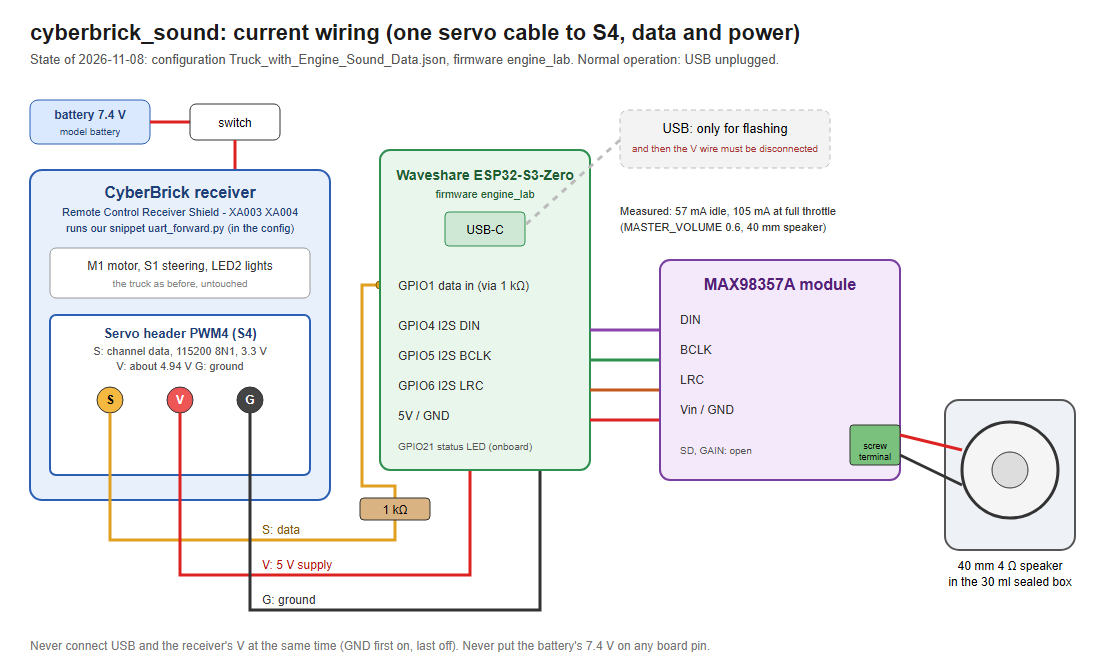
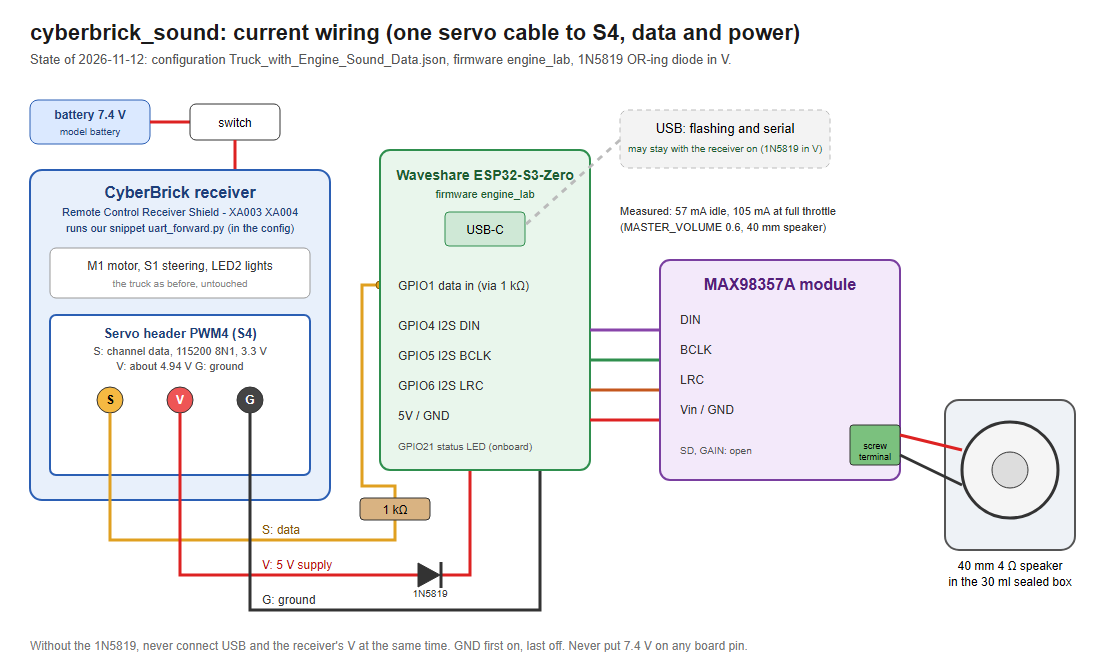
Breadboard: 1N5819 OR-ing diode in the V wire, USB and receiver together
A Schottky in the servo cable's V wire (anode to the receiver, cathode to the
Zero's 5V) lets the module stay on USB with the receiver powered. Measured
2026-11-12: receiver only 4.750 / 4.436 V (anode / cathode), USB only 5.135 V
on the 5V pin (VBUS directly), both 4.947 / 5.135 V, so the diode blocks and
the receiver is isolated. The old "disconnect V" rule stays for a breadboard
without the diode. Wiring diagram updated.

diff --git a/docs/bringup.md b/docs/bringup.md
@@ -3,7 +3,7 @@
 Status: done for the breadboard prototype (2026-11-01..06). The checklists below are kept as the record; the results
 are in the measurements table at the bottom. The current wiring is a single servo cable to S4 (`wiring-current.png`).
 
-> **Safety rule for every test: the ESP32-S3-Zero must never be powered from the model and connected to USB at the same time.** The Zero's 5V pad is the USB VBUS net (no diode), so the receiver's 5 V would be tied straight to the computer's USB 5 V. Whenever USB is plugged in, the servo cable's V (red) wire must be disconnected; signal and GND may stay. Unplug USB before connecting V. Only the shield, with its OR-ing diode, may have both.
+> **Safety rule for every test: the ESP32-S3-Zero may be powered from the model and from USB at the same time only through a diode in the V wire.** The Zero's 5V pad is the USB VBUS net with no diode (measured 5.135 V on it with USB only), so without a diode the receiver's 5 V would be tied straight to the computer's USB 5 V. Since 2026-11-12 the breadboard has a 1N5819 Schottky in the V wire (anode to the receiver, cathode to the Zero's 5V), like D2 on the shield; see "OR-ing diode on the breadboard" below for the check. Without that diode: whenever USB is plugged in, the servo cable's V (red) wire must be disconnected (signal and GND may stay), and USB is unplugged before V is connected.
 > **GND stays connected** in USB tests: the signal needs the common ground as its reference, and without it the return current would flow through the signal pin and the ESP's protection diodes. A common ground ties no supplies together (the receiver runs from a floating battery). Connect GND first and disconnect it last.
 
 Status: PWM2 throttle copy verified on the real receiver (see the measurements table). The engine firmware with the real throttle is the next test.
@@ -56,8 +56,27 @@ Only after stage 1 works. See `docs/wiring-stage2.png` (source `.svg`): unplug U
 
 Test-tone wiring only (no CyberBrick yet): `docs/wiring-test-tone.png`.
 
-Current wiring (2026-11-08: one servo cable to the receiver's S4 header, data and power): `docs/wiring-current.png`
-(source `.svg`).
+Current wiring (2026-11-08: one servo cable to the receiver's S4 header, data and power; 1N5819 in the V wire since
+2026-11-12): `docs/wiring-current.png` (source `.svg`).
+
+### OR-ing diode on the breadboard (2026-11-12)
+
+A 1N5819 Schottky sits in the V wire on the breadboard: the receiver's red wire in a row of its own, the diode's anode
+in that row, its cathode (the stripe) in the row of the red wire to the Zero's 5V pin. Both legs on the same side of
+the breadboard's centre groove as the wires; rows on the other side are not connected. The diode lets the receiver
+feed the module and blocks the USB 5 V from flowing back into the receiver.
+
+Check, multimeter against GND (the brown wire):
+
+| Supply | Anode (receiver V) | Cathode (Zero 5V) | Meaning |
+|---|---|---|---|
+| receiver only | 4.750 V | 4.436 V | 0.31 V drop, the module runs through the diode |
+| USB only | - | 5.135 V | the Zero's 5V pin is VBUS directly |
+| USB and receiver | 4.947 V | 5.135 V | cathode higher: the diode blocks, the receiver is isolated from USB |
+
+The module runs fine at about 4.4 V. With USB plugged in the cathode should read the USB voltage (about 5.1 V); if it
+reads about 4.4 V, USB is not seated (a first reading was like that). If the diode is ever removed, the "disconnect V"
+rule applies again.
 
 ## 3. Test order
 1. `pio run -e test_tone -t upload` - expect a steady 440 Hz tone. Checks amplifier and speaker.

diff --git a/docs/shield-pcb.md b/docs/shield-pcb.md
@@ -40,7 +40,8 @@ Mock of the layout (top view, illustrative placement, not routed). An interactiv
 
 1. **Socket or pads for the ESP32-S3-Zero**, same pin use as the prototype: GPIO1 throttle in, GPIO4 I2S DOUT, GPIO5 BCLK, GPIO6 LRC. The USB-C port and the Boot/Reset buttons must stay reachable for flashing.
 2. **Input connector** (3-pin servo type: S, V, G) to PWM4 (S4; PWM2 with the older pulse configuration). S goes through a 1 kOhm series resistor to GPIO1, optionally with a large pull-down (for example 100 kOhm) so the input is defined when disconnected, and optionally an ESD/TVS device.
-3. **Power from the servo port**: reverse-polarity protection (Schottky diode or P-MOSFET), a resettable fuse, a bulk capacitor (about 100-470 uF) near the amplifier and small ceramic decoupling capacitors. A diode (or ideal diode) between the servo-port 5 V and the USB 5 V so both can be connected at the same time; on the breadboard only one of them may ever be connected.
+3. **Power from the servo port**: reverse-polarity protection (Schottky diode or P-MOSFET), a resettable fuse, a bulk capacitor (about 100-470 uF) near the amplifier and small ceramic decoupling capacitors. A diode (or ideal diode) between the servo-port 5 V and the USB 5 V so both can be connected at the same time; the breadboard has the same arrangement with a 1N5819 since 2026-11-12
+(measured in `bringup.md`).
 4. **MAX98357A amplifier**: gain and shutdown/channel pins configurable (resistors or jumpers), speaker output to a JST SH 1.0 mm 2-pin connector (see below) or solder pads. The chip is hard to solder by hand; assembly by a PCB service is likely.
 5. **Service items**: test points (5 V, 3.3 V, GND, GPIO1, I2S lines) as pads on the bottom side, four M2/M2.5 mounting holes in the CyberBrick pattern, a **power LED** (taken from the servo-port 5 V after the reverse-polarity diode, so it shows that cable and receiver are fine; the Zero has no power LED of its own, only a programmable RGB LED). The status of the signal is shown by the Zero's own RGB LED from firmware (see the README).
 

diff --git a/docs/start-stop-horn.md b/docs/start-stop-horn.md
@@ -80,7 +80,7 @@ Also considered: phenoxy "Diesel_start_idle2.wav" (https://freesound.org/people/
 
 ## Still to check on hardware
 
-0. Safety: the measurement runs over USB, so the servo cable's V (red) wire must be disconnected first; only signal (through 1 kΩ) and GND go to the Zero (see the rule at the top of `bringup.md`).
+0. Safety: the measurement runs over USB. With the 1N5819 in the V wire (breadboard since 2026-11-12) the receiver may stay connected; without it the servo cable's V (red) wire must be disconnected first and only signal (through 1 kΩ) and GND go to the Zero (see the rule at the top of `bringup.md`).
 1. Send the config to both cores (Bluetooth, "Send to Device") and measure the PWM3 pulse with `pulse_measure` on a second pin: does it change on every Short Hold press and hold its value?
 2. Does the receiver keep sending pulses when the transmitter is off or out of range?
 3. ~~The shield then needs a second servo input (signal through 1 kΩ to a free GPIO, for example GPIO2, with a pull-down; GND shared, V not connected).~~ Dropped on 2026-11-07: the channel data on one cable replaces it, see the top of this file. A draft of this was committed and reverted on 2026-11-01 (`91d2b26`, revert `54d28b3`) because it was only thinking aloud.

diff --git a/README.md b/README.md
@@ -35,9 +35,10 @@ Bambu's firmware is unchanged on both boards. The configuration to send from the
 `docs/cyberbrick-config/Truck_with_Engine_Sound_Data.json`. The firmware also still accepts the older variant, a
 throttle-only servo pulse on PWM2. Details: `docs/controls.md`.
 
-**Power rule (breadboard prototype):** never connect the module to USB and to the receiver's 5 V at the same time.
-Disconnect the V wire for flashing and USB tests; connect GND first and disconnect it last (`docs/bringup.md`). The
-shield PCB has an OR-ing diode, so there both may be connected (`docs/shield-pcb.md`).
+**Power rule:** USB and the receiver's 5 V may be connected together only through a diode in the V wire. The
+breadboard prototype has a 1N5819 there since 2026-11-12 (measured: the receiver stays isolated from USB), and the
+shield PCB has the OR-ing diode D2 (`docs/shield-pcb.md`). Without that diode, disconnect the V wire for flashing and
+USB tests. Connect GND first and disconnect it last (`docs/bringup.md`).
 
 ## Documentation
 

diff --git a/docs/project-overview.md b/docs/project-overview.md
@@ -35,7 +35,8 @@ Controls, the receiver program and its auto-start: `controls.md`; measurements: 
 | MAX98357A breadboard module | I2S class-D amplifier; the firmware sends the same sample on both channels because the amplifier outputs (L+R)/2 |
 | 40 mm speaker (4 Ohm) | prototype speaker |
 
-Rule on the breadboard: never connect USB and the servo-port 5 V at the same time. Current wiring: `wiring-current.png` (one servo cable to S4, data and power); earlier stages: `wiring-overview.png`, `wiring-stage2.png`, `wiring-test-tone.png`.
+Power on the breadboard: a 1N5819 in the V wire (since 2026-11-12, measured in `bringup.md`) lets USB and the
+servo-port 5 V be connected together; without it they must never be. Current wiring: `wiring-current.png` (one servo cable to S4, data and power); earlier stages: `wiring-overview.png`, `wiring-stage2.png`, `wiring-test-tone.png`.
 
 ### Shield PCB (iteration 2: KiCad schematic and routed board exist, not yet reviewed or manufactured)
 

diff --git a/docs/controls.md b/docs/controls.md
@@ -98,8 +98,9 @@ Side effects:
 2. The data start by themselves within about a second; the engine stays silent.
 3. Turn the ignition on (switch to either side), or just drive off.
 
-The sound module is powered from the receiver's servo header. When the module is on USB (flashing, tests), the V
-wire must be disconnected (`bringup.md`).
+The sound module is powered from the receiver's servo header. USB (flashing, tests) may stay connected with the
+receiver on, thanks to the 1N5819 in the breadboard's V wire; without that diode the V wire must be disconnected
+first (`bringup.md`).
 
 ## Files
 
